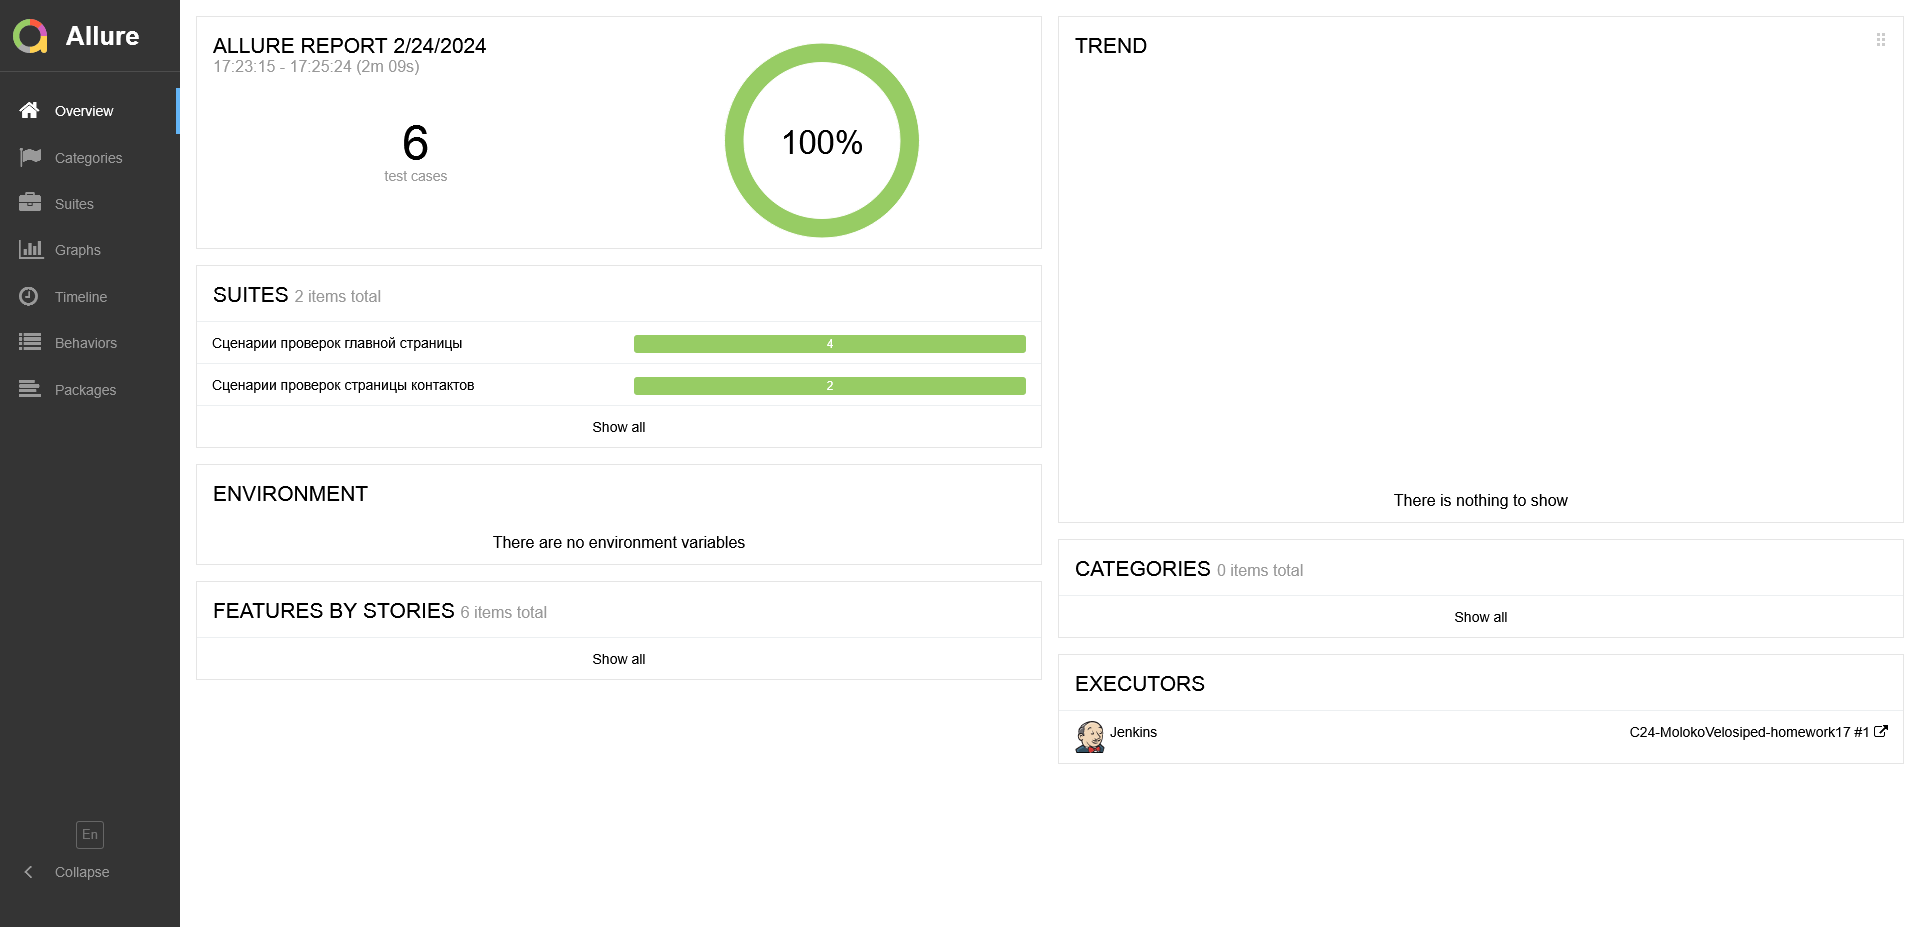
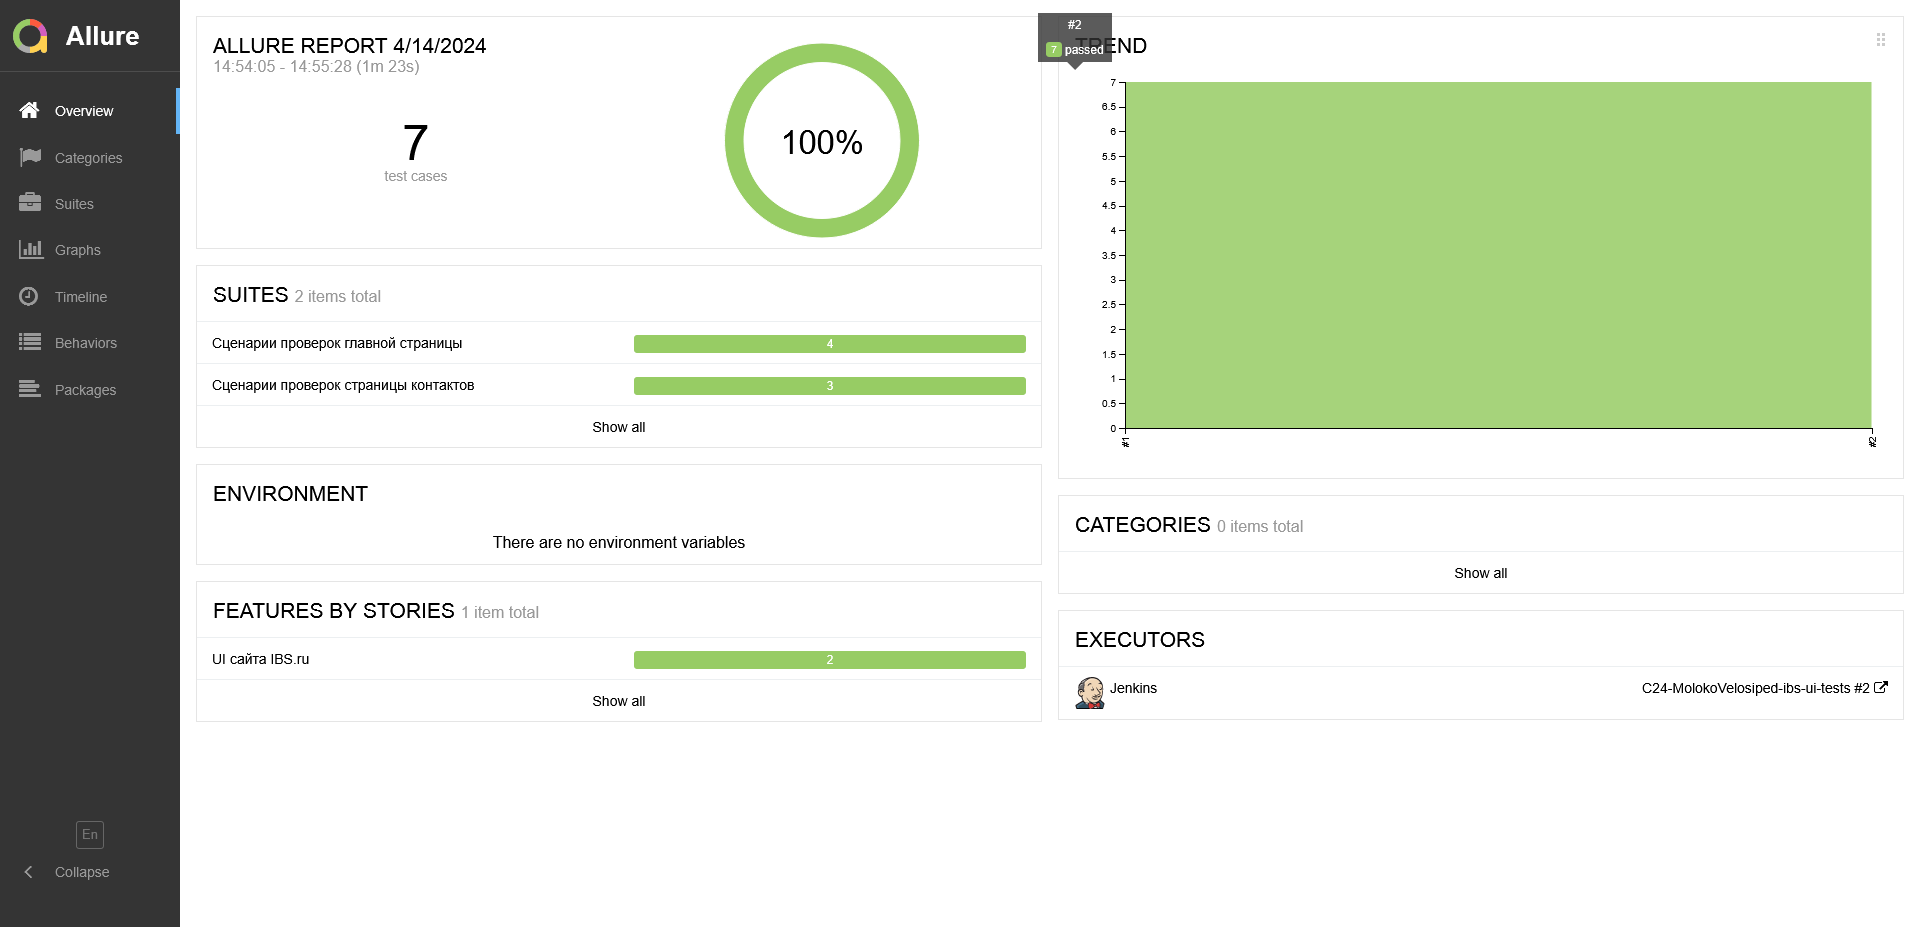
Актуализация README.md

diff --git a/README.md b/README.md
@@ -60,13 +60,13 @@ clean test
 ### Параметры сборки
 
 * <code>REMOTE_URL</code> – адрес удаленного сервера, на котором будут запускаться тесты. По умолчанию – <code>https://user1:1234@selenoid.autotests.cloud/wd/hub</code>
-* <code>BROWSER</code> – браузер, в котором будут выполняться тесты. По умолчанию – <code>chrome</code>.
-* <code>BROWSER_VER</code> – версия браузера, в которой будут выполняться тесты. По умолчанию – <code>122.0</code>.
-* <code>BROWSER_RES</code> – размер окна браузера, в котором будут выполняться тесты. По умолчанию – <code>1920x1080</code>.
+* <code>BROWSER</code> – браузер, в котором будут выполняться тесты. По умолчанию – <code>chrome</code>
+* <code>BROWSER_VER</code> – версия браузера, в которой будут выполняться тесты. По умолчанию – <code>122.0</code>
+* <code>BROWSER_RES</code> – размер окна браузера, в котором будут выполняться тесты. По умолчанию – <code>1920x1080</code>
 
 <code>-Denv=remote</code> загружает конфигурационный файл удалённого запуска, активирующий дополнительные настройки автотестов, которые не используются при локальном запуске.
 
-## <img width="4%" style="vertical-align:middle" title="Jenkins" src="media/logos/Jenkins.svg"> [Сборка](https://jenkins.autotests.cloud/view/C24/job/C24-MolokoVelosiped-homework17/) в Jenkins
+## <img width="4%" style="vertical-align:middle" title="Jenkins" src="media/logos/Jenkins.svg"> [Сборка](https://jenkins.autotests.cloud/job/C24-MolokoVelosiped-ibs-ui-tests/) в Jenkins
 
 Для запуска сборки необходимо перейти в раздел <code>Build with parameters</code> и нажать кнопку <code>Build</code>.
 <p align="center">
@@ -74,7 +74,7 @@ clean test
 </p>
 После выполнения сборки, в блоке <code>Build History</code> напротив номера сборки появятся значки <code>Allure Report</code> и <code>Allure TestOps</code>, при клике на которые откроется страница с сформированным html-отчетом и тестовой документацией соответственно.
 
-## <img width="4%" style="vertical-align:middle" title="Allure Report" src="media/logos/AllureReport.svg"> [Пример](https://jenkins.autotests.cloud/view/C24/job/C24-MolokoVelosiped-homework17/6/allure/) Allure-отчёта
+## <img width="4%" style="vertical-align:middle" title="Allure Report" src="media/logos/AllureReport.svg"> [Пример](https://jenkins.autotests.cloud/job/C24-MolokoVelosiped-ibs-ui-tests/2/allure/) Allure-отчёта
 
 <p align="center">
 <img title="Общий вид отчёта Allure" src="media/screencaps/AllureOverview.png">
@@ -84,10 +84,10 @@ clean test
 
 * Тест-кейсы, разделённые на папки
 * Описание шагов тестов
-* Скриншот страницы на последнем шаге;
-* Page Source;
-* Логи браузерной консоли;
-* Видео выполнения автотеста.
+* Скриншот страницы на последнем шаге
+* Page Source
+* Логи браузерной консоли
+* Видео выполнения автотеста
 
 ### Раздел Suites
 
@@ -101,23 +101,29 @@ clean test
 <img title="Раздел Behaviors отчёта Allure" src="media/screencaps/AllureBehaviors.png">
 </p>
 
-## <img width="4%" style="vertical-align:middle" title="Allure TestOps" src="media/logos/AllureTestOps.svg"> [Интеграция](https://allure.autotests.cloud/project/4071/dashboards) с Allure TestOps
+## <img width="4%" style="vertical-align:middle" title="Allure TestOps" src="media/logos/AllureTestOps.svg"> [Интеграция](https://allure.autotests.cloud/project/4174/dashboards) с Allure TestOps
 
-На *Dashboard* в <code>Allure TestOps</code> видна статистика количества тестов: сколько из них добавлены и проходятся вручную (на скриншоте ручной тест можно увидеть в списке в статусе Draft), сколько автоматизированы. Новые тесты, а также результаты прогона приходят по интеграции при каждом запуске сборки.
+На *Dashboard* в <code>Allure TestOps</code> видна статистика количества тестов: сколько из них добавлены и проходятся вручную, сколько автоматизированы. Новые тесты приходят по интеграции при каждом запуске сборки вместе с результатами их прохождения.
 
 <p align="center">
 <img title="Дэшборд Allure TestOps" src="media/screencaps/TestOpsDashboard.png">
 </p>
 
-### Результат выполнения автотеста
+### Тест-кейс, сгенерированный из автотеста
 
 <p align="center">
-<img title="Результаты теста в Allure TestOps" src="media/screencaps/TestOpsResults.png">
+<img title="Результаты теста в Allure TestOps №1" src="media/screencaps/TestOpsResults1.png">
 </p>
 
-## <img width="4%" style="vertical-align:middle" title="Jira" src="media/logos/Jira.svg"> [Интеграция](https://jira.autotests.cloud/browse/HOMEWORK-1120) с Jira
+### Тест-кейс ручной проверки
 
-Реализована интеграция <code>Allure TestOps</code> с <code>Jira</code>, в тикете отображается, какие тест-кейсы были написаны в рамках задачи и их прогоны.
+<p align="center">
+<img title="Результаты теста в Allure TestOps №2" src="media/screencaps/TestOpsResults2.png">
+</p>
+
+## <img width="4%" style="vertical-align:middle" title="Jira" src="media/logos/Jira.svg"> [Интеграция](https://jira.autotests.cloud/browse/HOMEWORK-1188) с Jira
+
+Реализована интеграция <code>Allure TestOps</code> с <code>Jira</code>, в тикете отображаются привязанные тест-кейсы и результаты их запусков.
 
 <p align="center">
 <img title="Тикет в Jira" src="media/screencaps/Jira.png">
